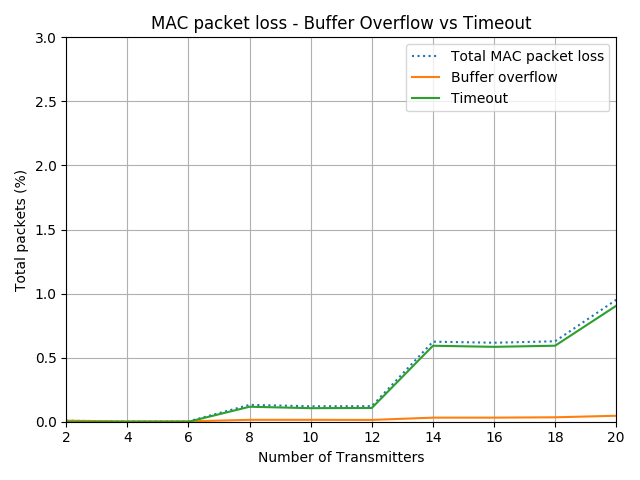
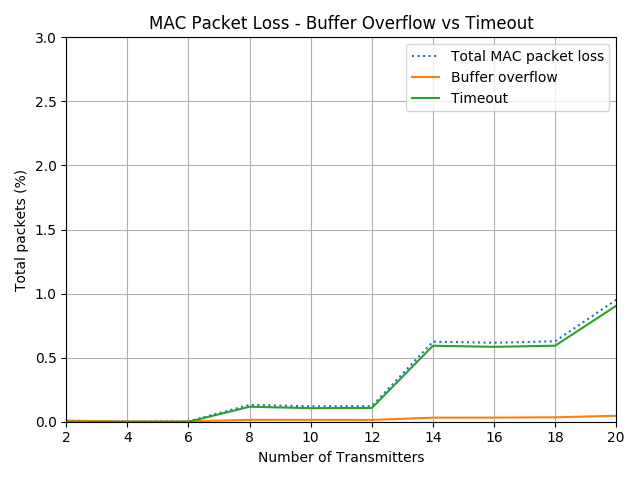
updated graph

Changed region(s): [[0.2188, 0.0312, 0.8438, 0.0625]]

diff --git a/omnetProject/python/exp2_stats_v2.py b/omnetProject/python/exp2_stats_v2.py
@@ -196,6 +196,7 @@ def create_graphs(simulation_stats):
     packet_loss_buffer = []
     packet_loss_timeout = []
     nodes_v_successful_packets = []
+    total_collision = []
 
     # Explained packet loss (packet_loss_mac + packet_loss_collision)
     # Checks to see if we have accounted for all packet loss in the system
@@ -234,10 +235,25 @@ def create_graphs(simulation_stats):
     # print(packet_loss_means)
     # print(packet_loss_explainable)
 
+    print(packet_loss_means)
+    print(packet_loss_mac)
+    for i in range(0, len(packet_loss_means)):
+        total_collision.append(packet_loss_means[i] - packet_loss_mac[i])
+
+
+    plt.figure()
+    plt.plot(list(simulation_stats.keys()), total_collision)
+    plt.title("Collision Packet Loss")
+    plt.ylabel("Total Packets (%)")
+    plt.xlabel("Number of Transmitters")
+    plt.xlim(2, 20)
+    plt.ylim(0, 100)
+    plt.show()
+
 
     plt.figure()
     plt.plot(list(simulation_stats.keys()), packet_loss_means)
-    plt.title('Packets Lost (%)')
+    plt.title('Total Packets Lost')
     plt.xlabel("Number of Transmitters")
     plt.ylabel("Total Packets (%)")
     plt.grid(True)
@@ -261,7 +277,7 @@ def create_graphs(simulation_stats):
     plt.plot(list(simulation_stats.keys()), packet_loss_mac, linestyle=':')
     plt.plot(list(simulation_stats.keys()), packet_loss_buffer)
     plt.plot(list(simulation_stats.keys()), packet_loss_timeout)
-    plt.title("MAC packet loss - Buffer Overflow vs Timeout")
+    plt.title("MAC Packet Loss - Buffer Overflow vs Timeout")
     plt.legend(["Total MAC packet loss", "Buffer overflow", "Timeout"])
     plt.xlabel("Number of Transmitters")
     plt.ylabel("Total packets (%)")
